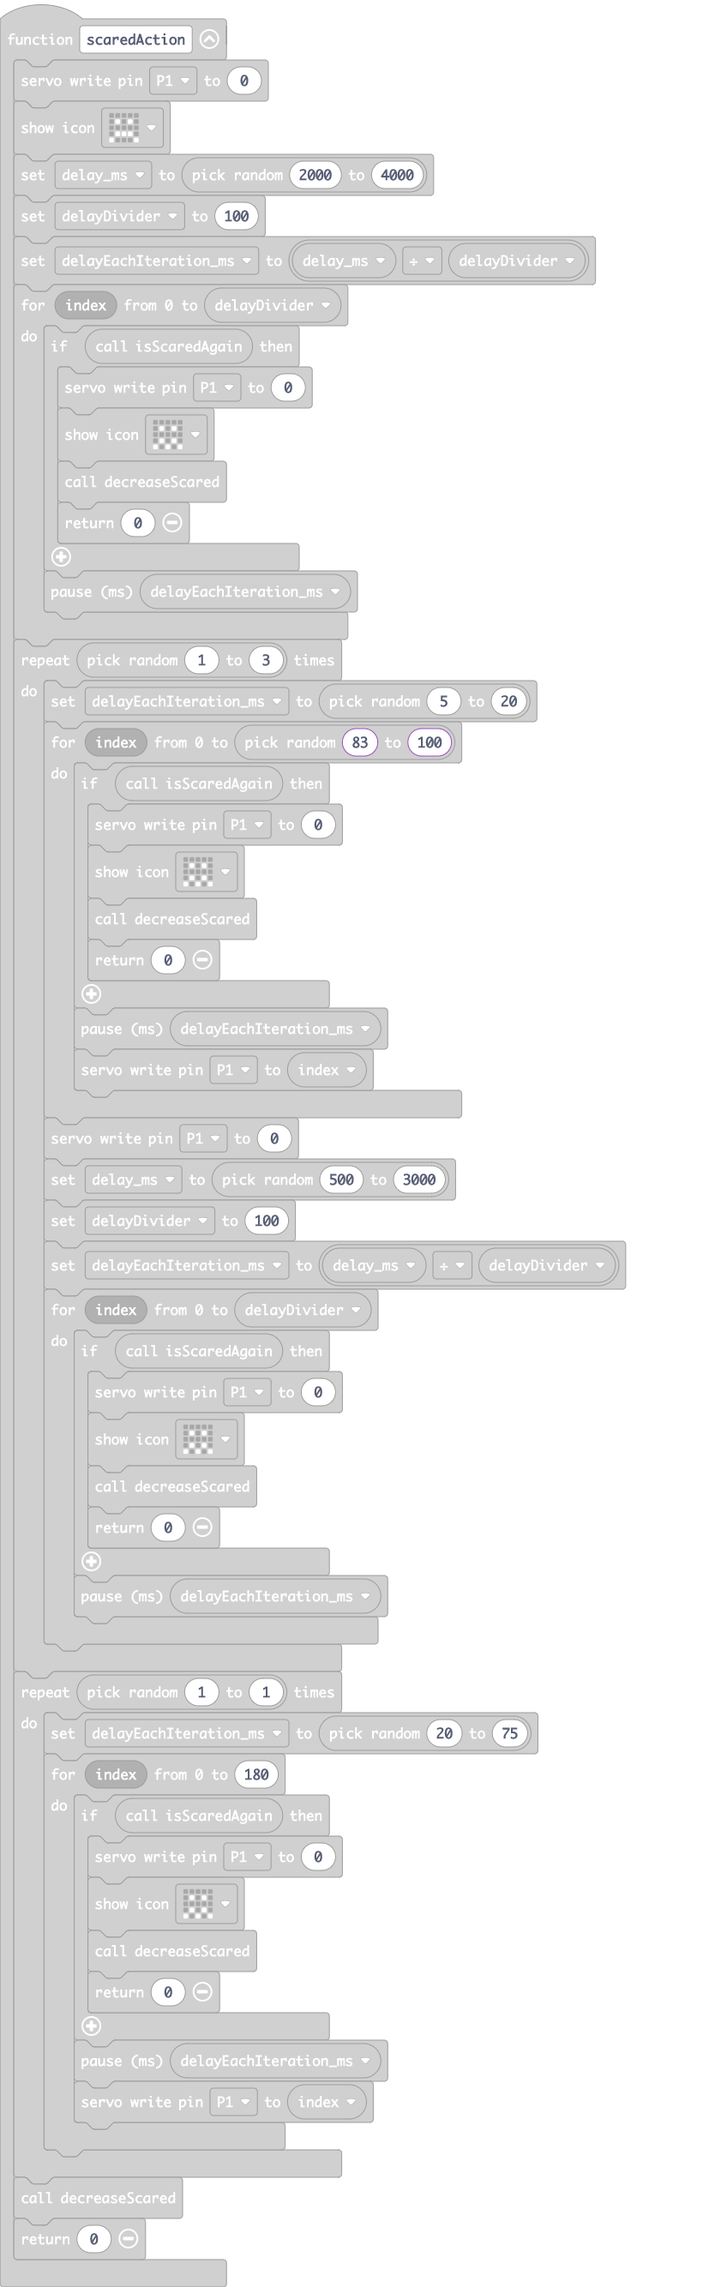
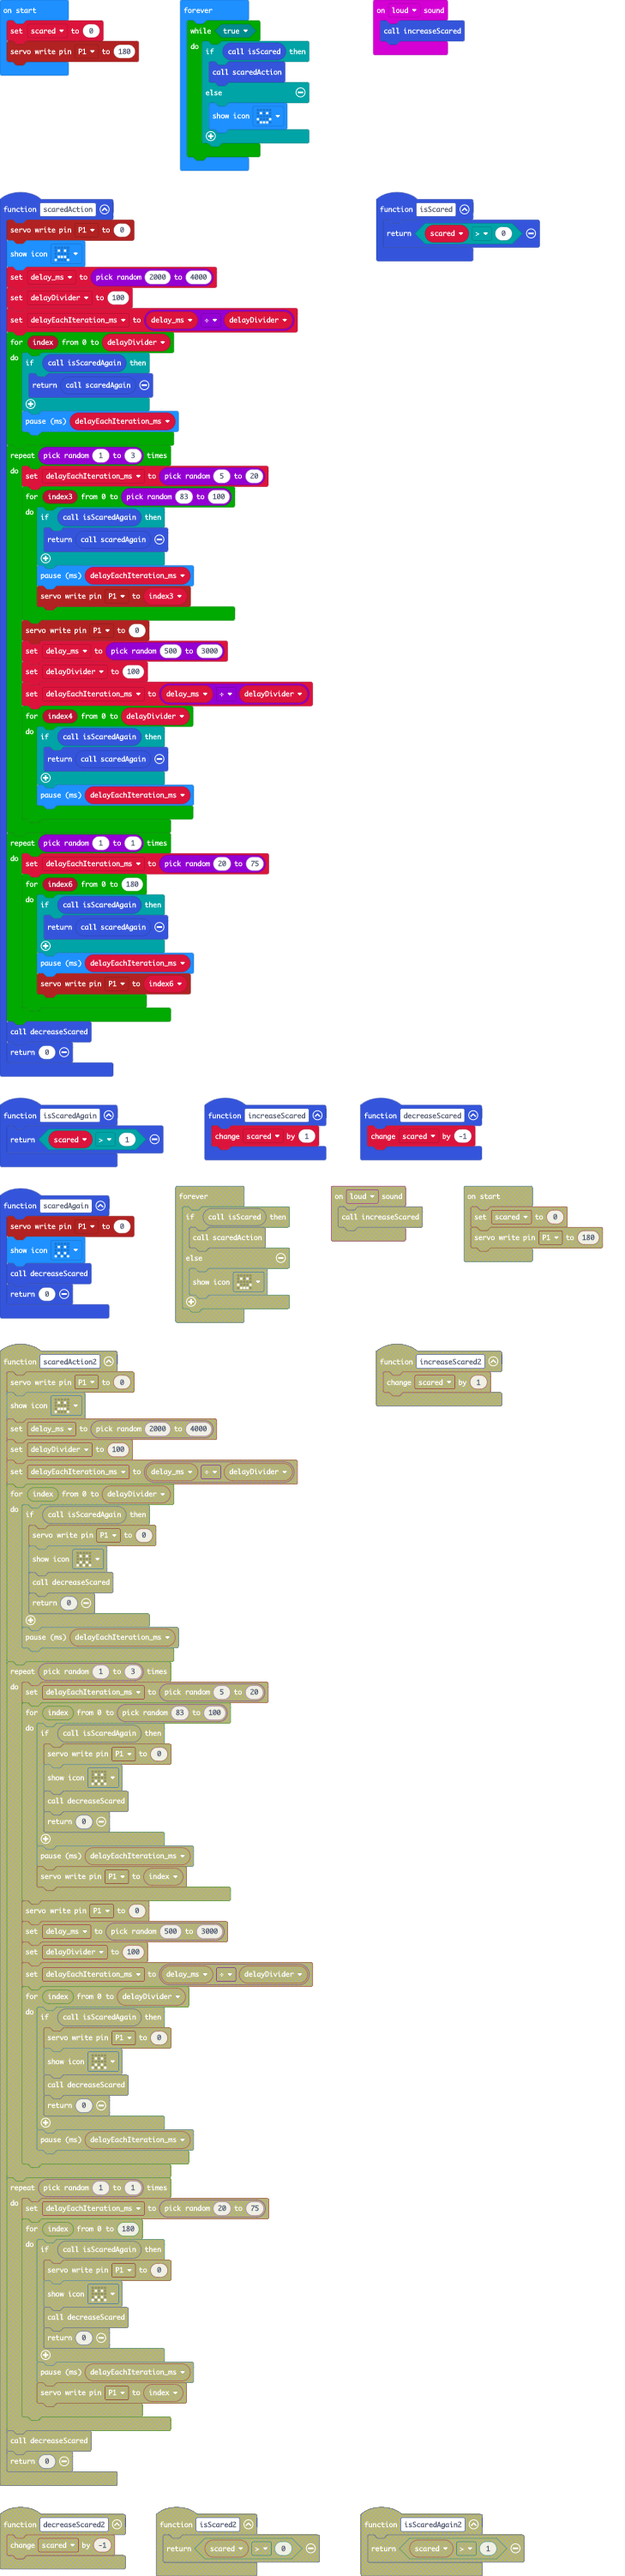
Add own main-loop to avoid small delay, reduced some code duplication.

diff --git a/main.ts b/main.ts
@@ -12,50 +12,38 @@ function scaredAction () {
     delayEachIteration_ms = delay_ms / delayDivider
     for (let index = 0; index <= delayDivider; index++) {
         if (isScaredAgain()) {
-            pins.servoWritePin(AnalogPin.P1, 0)
-            basic.showIcon(IconNames.Confused)
-            decreaseScared()
-            return 0
+            return scaredAgain()
         }
         basic.pause(delayEachIteration_ms)
     }
     for (let index = 0; index < randint(1, 3); index++) {
         delayEachIteration_ms = randint(5, 20)
-        for (let index = 0; index <= randint(83, 100); index++) {
+        for (let index3 = 0; index3 <= randint(83, 100); index3++) {
             if (isScaredAgain()) {
-                pins.servoWritePin(AnalogPin.P1, 0)
-                basic.showIcon(IconNames.Confused)
-                decreaseScared()
-                return 0
+                return scaredAgain()
             }
             basic.pause(delayEachIteration_ms)
-            pins.servoWritePin(AnalogPin.P1, index)
+            pins.servoWritePin(AnalogPin.P1, index3)
         }
         pins.servoWritePin(AnalogPin.P1, 0)
         delay_ms = randint(500, 3000)
         delayDivider = 100
         delayEachIteration_ms = delay_ms / delayDivider
-        for (let index = 0; index <= delayDivider; index++) {
+        for (let index4 = 0; index4 <= delayDivider; index4++) {
             if (isScaredAgain()) {
-                pins.servoWritePin(AnalogPin.P1, 0)
-                basic.showIcon(IconNames.Confused)
-                decreaseScared()
-                return 0
+                return scaredAgain()
             }
             basic.pause(delayEachIteration_ms)
         }
     }
     for (let index = 0; index < randint(1, 1); index++) {
         delayEachIteration_ms = randint(20, 75)
-        for (let index = 0; index <= 180; index++) {
+        for (let index6 = 0; index6 <= 180; index6++) {
             if (isScaredAgain()) {
-                pins.servoWritePin(AnalogPin.P1, 0)
-                basic.showIcon(IconNames.Confused)
-                decreaseScared()
-                return 0
+                return scaredAgain()
             }
             basic.pause(delayEachIteration_ms)
-            pins.servoWritePin(AnalogPin.P1, index)
+            pins.servoWritePin(AnalogPin.P1, index6)
         }
     }
     decreaseScared()
@@ -70,6 +58,12 @@ input.onSound(DetectedSound.Loud, function () {
 function isScaredAgain () {
     return scared > 1
 }
+function scaredAgain () {
+    pins.servoWritePin(AnalogPin.P1, 0)
+    basic.showIcon(IconNames.Confused)
+    decreaseScared()
+    return 0
+}
 let delayEachIteration_ms = 0
 let delayDivider = 0
 let delay_ms = 0
@@ -77,9 +71,11 @@ let scared = 0
 scared = 0
 pins.servoWritePin(AnalogPin.P1, 180)
 basic.forever(function () {
-    if (isScared()) {
-        scaredAction()
-    } else {
-        basic.showIcon(IconNames.Happy)
+    while (true) {
+        if (isScared()) {
+            scaredAction()
+        } else {
+            basic.showIcon(IconNames.Happy)
+        }
     }
 })
